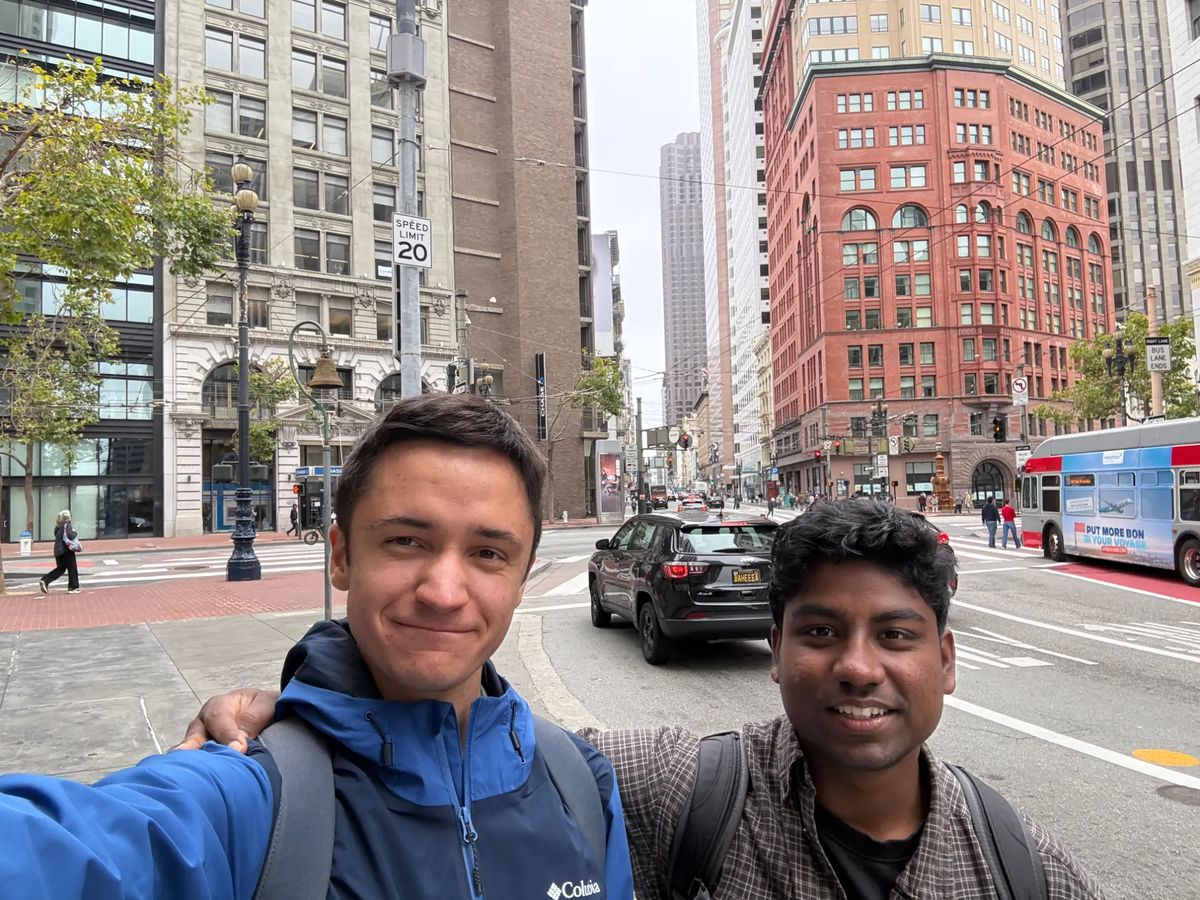
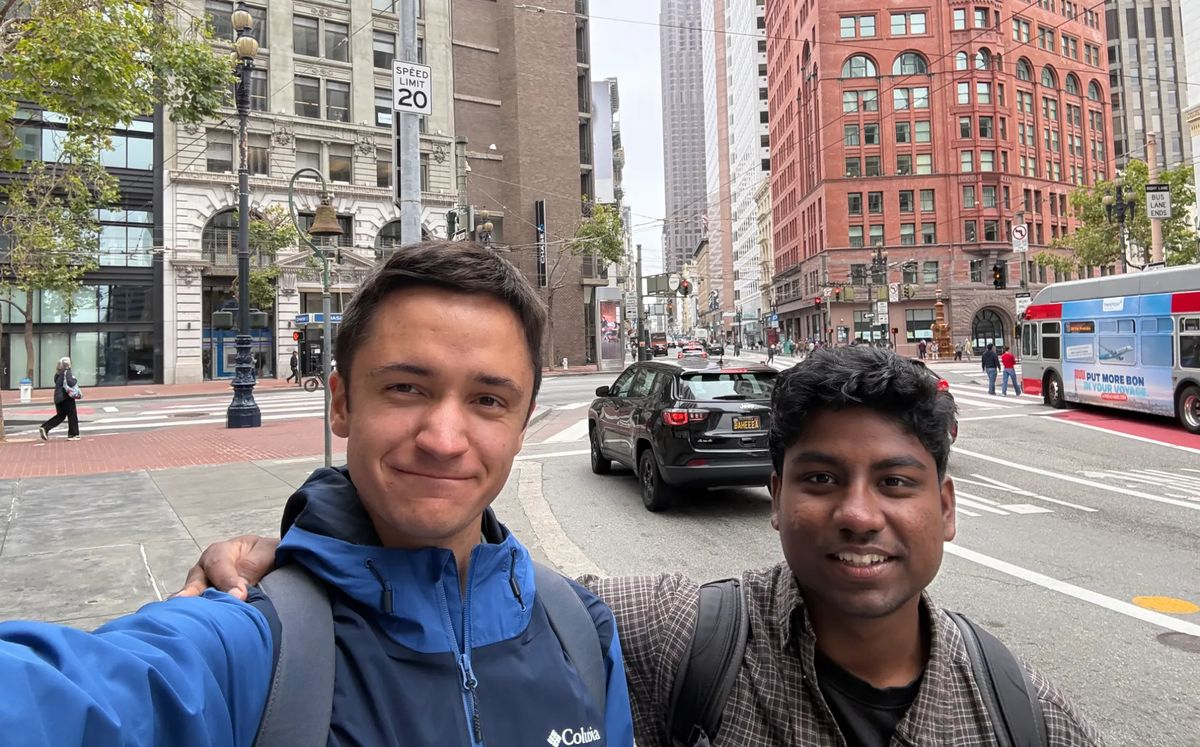
Homepage: crop founder photo 17% from top for a wider frame
Claude-Session: https://claude.ai/code/session_01Y4FwLMKRaVStdrXUQhVE3i

diff --git a/index.html b/index.html
@@ -271,7 +271,7 @@
   <!-- ============ profiles ============ -->
   <section>
     <h2>Who's building it</h2>
-    <img class="team-photo" src="founders.jpg" width="1200" height="900" loading="lazy" decoding="async" alt="Boris (left) and Lohith (right)">
+    <img class="team-photo" src="founders.jpg" width="1200" height="747" loading="lazy" decoding="async" alt="Boris (left) and Lohith (right)">
     <p class="team-caption">Boris (left) and Lohith (right).</p>
     <div class="profiles">
       <a class="profile" href="https://www.linkedin.com/in/bggoranoff" target="_blank" rel="noopener">
